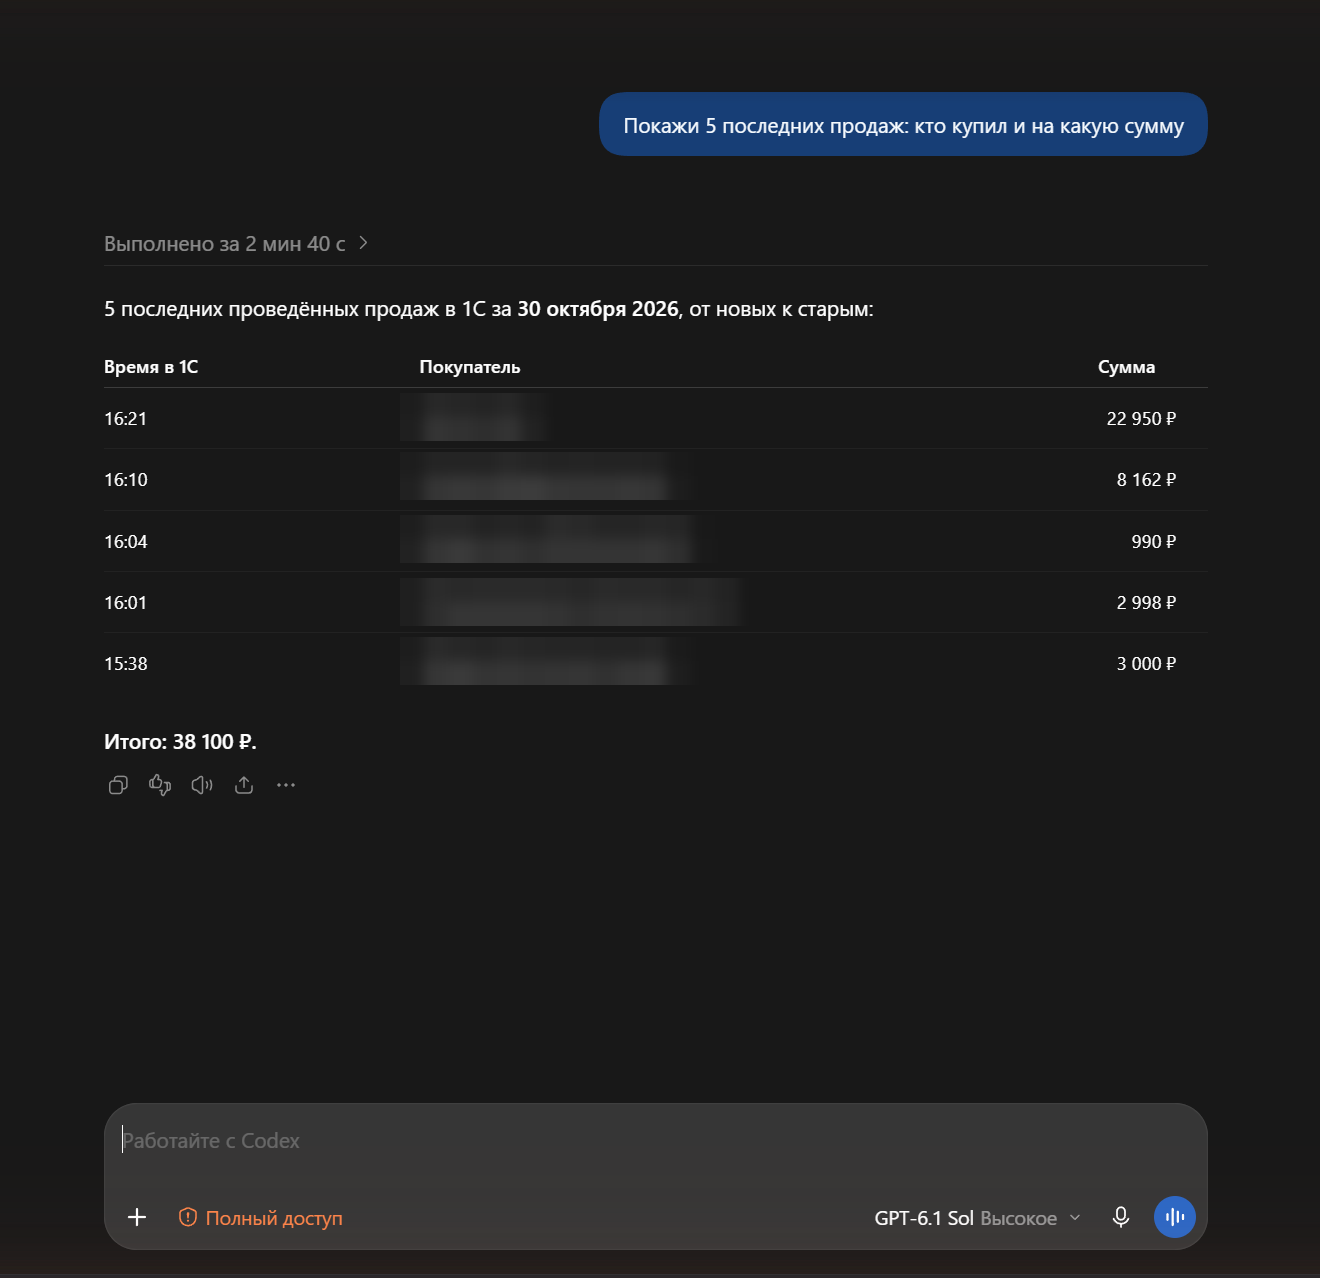
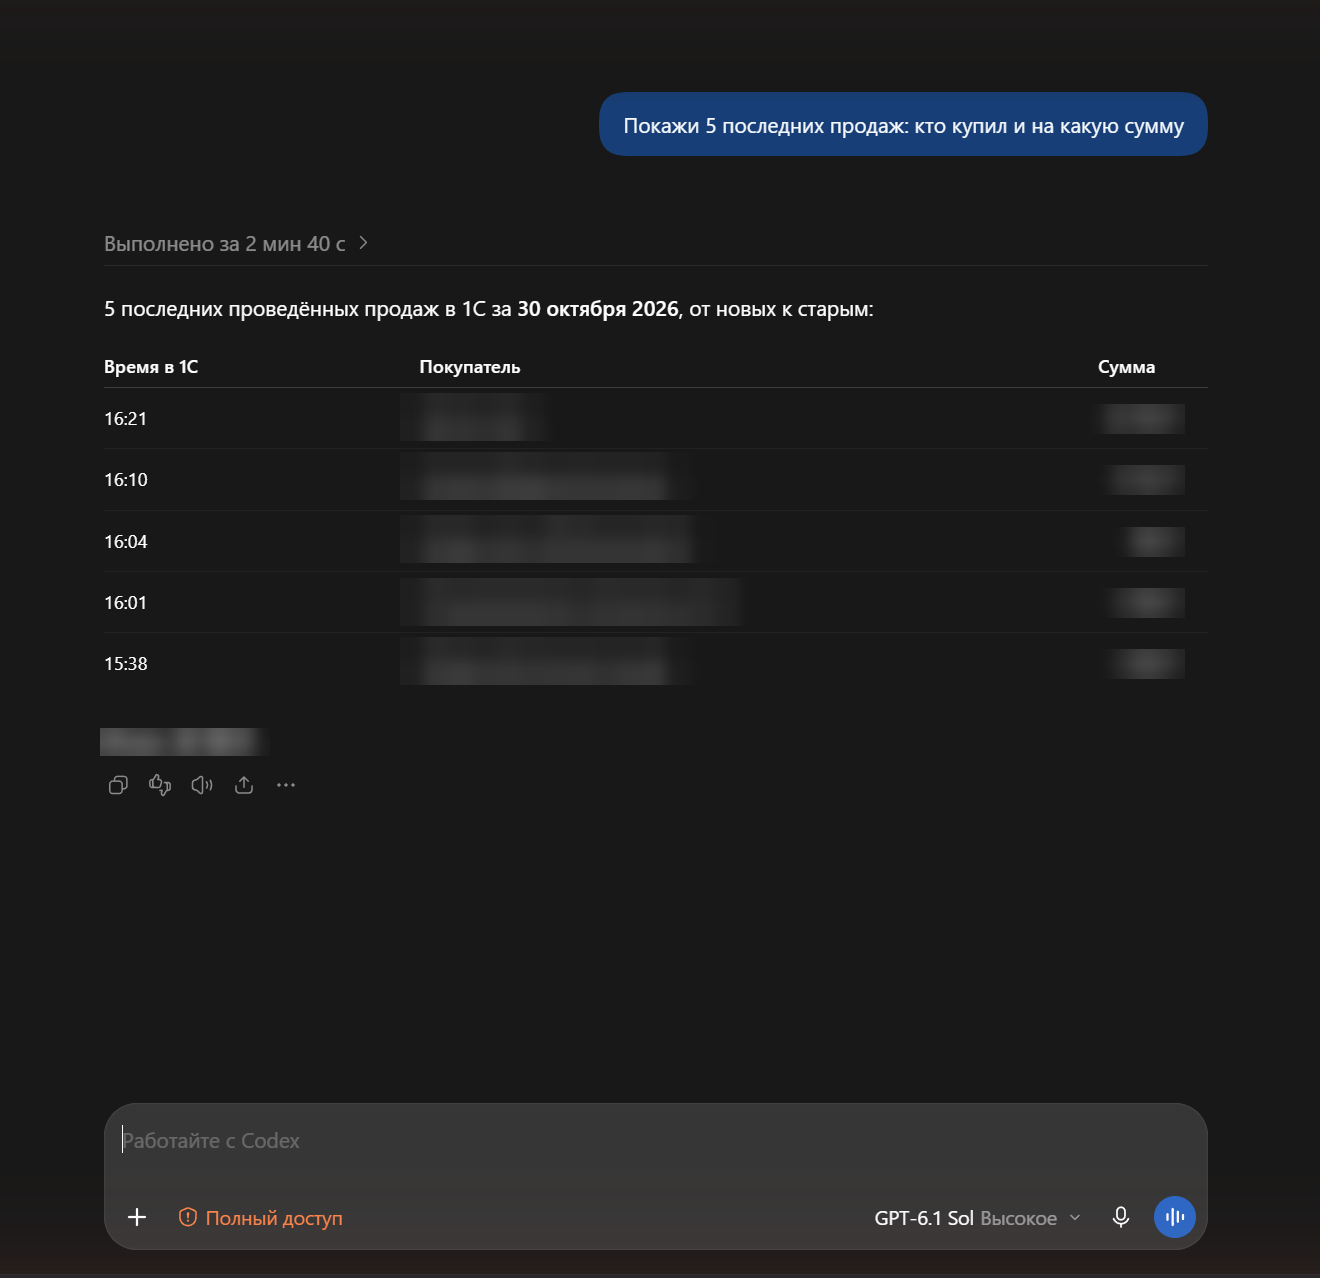
Скриншоты: размыты суммы, номера и счётчики (152-ФЗ)

Changed region(s): [[0.8386, 0.3662, 0.9008, 0.5493], [0.0621, 0.5493, 0.1864, 0.6103], [0.8386, 0.3052, 0.9008, 0.3357]]

diff --git a/README.md b/README.md
@@ -29,7 +29,7 @@
 
 ## Как это выглядит
 
-Скриншоты ниже сделаны в приложении ChatGPT на реальной базе 1С «Управление торговлей 11». Названия клиентов размыты.
+Скриншоты ниже сделаны в приложении ChatGPT на реальной базе 1С «Управление торговлей 11». Названия клиентов, суммы и номера документов размыты.
 
 ### От вопроса до дашборда
 
@@ -45,20 +45,20 @@
 
 **3. Выгружает документы и считает**
 
-<img src="docs/img/frame-07-raschet.png" alt="ChatGPT выгрузил 939 реализаций за сентябрь, учёл возвраты и розничные чеки, расчёт готов" width="720">
+<img src="docs/img/frame-07-raschet.png" alt="ChatGPT выгрузил реализации за сентябрь, учёл возвраты и розничные чеки, расчёт готов" width="720">
 
 **4. Показывает готовый дашборд.** Карточки, график по дням и рейтинг клиентов строит сам ChatGPT по данным из 1С.
 
 <img src="docs/img/frame-08-dashbord-grafik.png" alt="Дашборд: выручка после возвратов, средний чек, число продаж и график выручки по дням за сентябрь" width="720">
 
-<img src="docs/img/frame-09-dashbord-klienty.png" alt="Дашборд: топ-5 клиентов по выручке, названия размыты" width="720">
+<img src="docs/img/frame-09-dashbord-klienty.png" alt="Дашборд: топ-5 клиентов по выручке, названия и суммы размыты" width="720">
 
 ### Простые вопросы
 
 <table>
   <tr>
     <td width="50%"><b>«Проверь связь с 1С»</b><br><img src="docs/img/chat-check.png" alt="ChatGPT проверил связь с 1С: сервер доступен, авторизация прошла, опубликовано 820 объектов"></td>
-    <td width="50%"><b>«Покажи 5 последних продаж»</b><br><img src="docs/img/chat-sales.png" alt="Таблица 5 последних продаж: время, покупатель (размыт), сумма и итог"></td>
+    <td width="50%"><b>«Покажи 5 последних продаж»</b><br><img src="docs/img/chat-sales.png" alt="Таблица 5 последних продаж: время, покупатель и сумма размыты"></td>
   </tr>
 </table>
 
